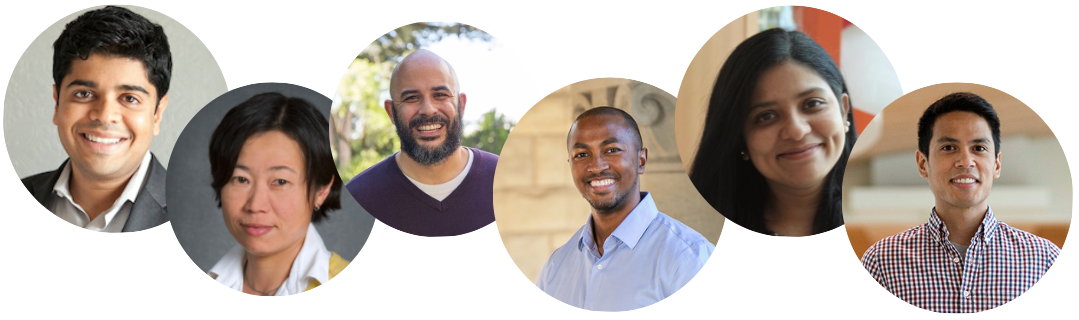
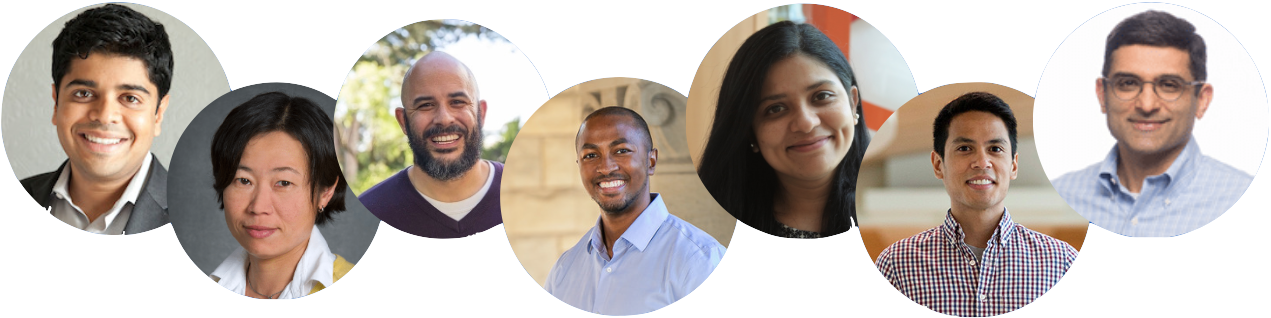
breaking into biosciences information updates

diff --git a/public/bib/index.html b/public/bib/index.html
@@ -123,7 +123,7 @@
             <h2 class="blog-title">Breaking into Biosciences</h2>
             <h3 id="join-us-on-august-31st-for-a-moderated-qa-and-panel">Join us on August 31st for a moderated Q&amp;A and panel!</h3>
 <p><img src="/images/bib/bib-headshots.png" alt="Speakers" title="Breaking into Biosciences Speakers"></p>
-<p><em>Vasudev Bailey, Junko Yano, Blake Riggs, Christopher Barnes, Meghna Gupta, James Nuñez</em></p>
+<p><em>Vasudev Bailey, Junko Yano, Blake Riggs, Christopher Barnes, Meghna Gupta, James Nuñez, Rajiv Patni</em></p>
 <p>Please join us for our second event spotlighting success in STEM by people from nontraditional and underrepresented backgrounds. Meet our diverse lineup of speakers and hear them share stories of their personal careers and the barriers they had to overcome as a part of the biosciences community. Learn more about each of our speakers and their backgrounds:</p>
 <p> </p>
 <p><strong>Dr. Vasudev Bailey</strong></p>
@@ -160,7 +160,7 @@ I never thought about pursuing STEM. But here I am&hellip;</p>
 <p><em>Read more:</em> <a href="https://sites.google.com/a/lbl.gov/women-at-the-lab/2020-profiles-stem-operations/junko-yano">https://sites.google.com/a/lbl.gov/women-at-the-lab/2020-profiles-stem-operations/junko-yano</a></p>
 <p> </p>
 <p><strong>Dr. Blake Riggs</strong></p>
-<p>Currently an Associate Professor in Cell Molecular Biology at San Francisco State University. It has been a long and difficult road in a toxic training environment that has not always valued diversity and equity in research. My mission is understand the organization of the cell and to train the next generation of diverse scientist to advance our understanding of the cell.</p>
+<p>Currently an Associate Professor in Cell Molecular Biology at San Francisco State University. It has been a long and difficult road in a toxic training environment that has not always valued diversity and equity in research. My mission is to understand the organization of the cell and to train the next generation of diverse scientists to advance our understanding of the cell.</p>
 <p><em>Read more:</em> <a href="https://news.ucsc.edu/2016/03/riggs-blake.html">https://news.ucsc.edu/2016/03/riggs-blake.html</a>, <a href="https://www.ncbi.nlm.nih.gov/pmc/articles/PMC8098826/">https://www.ncbi.nlm.nih.gov/pmc/articles/PMC8098826/</a></p>
 <p> </p>
 <p><strong>Dr. Christopher Barnes</strong></p>
@@ -175,6 +175,9 @@ I never thought about pursuing STEM. But here I am&hellip;</p>
 <p>Dr. Nuñez is an Assistant Professor in the Molecular and Cell Biology Department at UC Berkeley, a Hanna Gray Fellow of HHMI, and an Investigator of the Chan Zuckerberg Biohub. Previously, he was a postdoc fellow with Jonathan Weissman at UCSF and earned his PhD at UC Berkeley in Jennifer Doudna&rsquo;s lab. James is interested in all things CRISPR and chromatin biology. Outside the lab, you will likely find James on a tennis court or outdoors on his bike or hiking boots.</p>
 <p>The core interest of his research group is to understand the regulatory principles of the human genome. Specifically, they investigate the molecular principles underlying epigenetic memory and inheritance in mammalian cells: how do cells establish the ‘epigenome’ to dictate gene expression programs and genome organization; how is the epigenome maintained and remodeled as cells divide and differentiate; and how do defects in these pathways lead to disease? The Nuñez lab combines functional genomics CRISPR screens, cell biology, and biochemistry to answer their research questions. Concurrently, the Nuñez lab develops and applies CRISPR-based programmable technologies for editing the epigenome by writing/erasing DNA and histone modifications at any genomic locus, enabling perturbations of gene expression programs without changing the DNA sequence of the human genome.</p>
 <p><em>Read more:</em> <a href="https://crosstalk.cell.com/blog/100-inspiring-hispanic-latinx-scientists-in-america">https://crosstalk.cell.com/blog/100-inspiring-hispanic-latinx-scientists-in-america</a></p>
+<p> </p>
+<p><strong>Dr. Rajiv Patni</strong></p>
+<p>Dr. Patni joined GBT in August 2020 as senior vice president and chief medical officer. He leads GBT’s clinical development organization, which encompasses clinical pharmacology, clinical operations biometrics, pharmacovigilance, drug safety and regulatory affairs. Prior to GBT, Dr. Patni was the chief medical officer for Portola Pharmaceuticals, where he developed and implemented the company’s global medical affairs strategy. He oversaw clinical studies of Andexxa® and the company’s pipeline programs. Before joining Portola, Dr. Patni was chief medical officer and then head of research and development at Adamas Pharmaceuticals, Inc. During his time at Adamas, he developed and led several departments, including research and development and medical affairs. He supported the clinical development program for Gocovri® and the company’s multiple sclerosis and epilepsy programs. Dr. Patni has held numerous other leadership positions, including chief development officer at Ocera Therapeutics, Inc., chief medical officer at Actelion Pharmaceuticals US, and product lifecycle team leader and therapeutic area head at Roche Pharmaceuticals. He also held senior roles at Pfizer Pharmaceuticals. He received an M.D. from the Mount Sinai School of Medicine and completed his residency at the Albert Einstein College of Medicine, where he served as an attending physician.</p>
 <p> </p>
 <blockquote>
 <p>The event will be hosted at the <a href="https://innovativegenomics.org">Innovative Genomics Institute</a> on <strong>August 31st from 6:00 to 7:30 p.m.</strong></p>

diff --git a/content/bib/_index.md b/content/bib/_index.md
@@ -9,7 +9,7 @@ author: Alexender Schoitiz
 
 ![Speakers](/images/bib/bib-headshots.png "Breaking into Biosciences Speakers")
 
-*Vasudev Bailey, Junko Yano, Blake Riggs, Christopher Barnes, Meghna Gupta, James Nuñez*
+*Vasudev Bailey, Junko Yano, Blake Riggs, Christopher Barnes, Meghna Gupta, James Nuñez, Rajiv Patni*
 
 Please join us for our second event spotlighting success in STEM by people from nontraditional and underrepresented backgrounds. Meet our diverse lineup of speakers and hear them share stories of their personal careers and the barriers they had to overcome as a part of the biosciences community. Learn more about each of our speakers and their backgrounds:
 
@@ -62,7 +62,7 @@ Jogging, Knitting, Painting, Reading, and Watching Ninjago with my daughter.
 
 **Dr. Blake Riggs**
 
-Currently an Associate Professor in Cell Molecular Biology at San Francisco State University. It has been a long and difficult road in a toxic training environment that has not always valued diversity and equity in research. My mission is understand the organization of the cell and to train the next generation of diverse scientist to advance our understanding of the cell.
+Currently an Associate Professor in Cell Molecular Biology at San Francisco State University. It has been a long and difficult road in a toxic training environment that has not always valued diversity and equity in research. My mission is to understand the organization of the cell and to train the next generation of diverse scientists to advance our understanding of the cell.
 
 *Read more:* https://news.ucsc.edu/2016/03/riggs-blake.html, https://www.ncbi.nlm.nih.gov/pmc/articles/PMC8098826/ 
 
@@ -91,6 +91,12 @@ Dr. Nuñez is an Assistant Professor in the Molecular and Cell Biology Departmen
 The core interest of his research group is to understand the regulatory principles of the human genome. Specifically, they investigate the molecular principles underlying epigenetic memory and inheritance in mammalian cells: how do cells establish the ‘epigenome’ to dictate gene expression programs and genome organization; how is the epigenome maintained and remodeled as cells divide and differentiate; and how do defects in these pathways lead to disease? The Nuñez lab combines functional genomics CRISPR screens, cell biology, and biochemistry to answer their research questions. Concurrently, the Nuñez lab develops and applies CRISPR-based programmable technologies for editing the epigenome by writing/erasing DNA and histone modifications at any genomic locus, enabling perturbations of gene expression programs without changing the DNA sequence of the human genome.
 
 *Read more:* https://crosstalk.cell.com/blog/100-inspiring-hispanic-latinx-scientists-in-america
+
+&nbsp;
+
+**Dr. Rajiv Patni**
+
+Dr. Patni joined GBT in August 2020 as senior vice president and chief medical officer. He leads GBT’s clinical development organization, which encompasses clinical pharmacology, clinical operations biometrics, pharmacovigilance, drug safety and regulatory affairs. Prior to GBT, Dr. Patni was the chief medical officer for Portola Pharmaceuticals, where he developed and implemented the company’s global medical affairs strategy. He oversaw clinical studies of Andexxa® and the company’s pipeline programs. Before joining Portola, Dr. Patni was chief medical officer and then head of research and development at Adamas Pharmaceuticals, Inc. During his time at Adamas, he developed and led several departments, including research and development and medical affairs. He supported the clinical development program for Gocovri® and the company’s multiple sclerosis and epilepsy programs. Dr. Patni has held numerous other leadership positions, including chief development officer at Ocera Therapeutics, Inc., chief medical officer at Actelion Pharmaceuticals US, and product lifecycle team leader and therapeutic area head at Roche Pharmaceuticals. He also held senior roles at Pfizer Pharmaceuticals. He received an M.D. from the Mount Sinai School of Medicine and completed his residency at the Albert Einstein College of Medicine, where he served as an attending physician.
 
 &nbsp;
 
